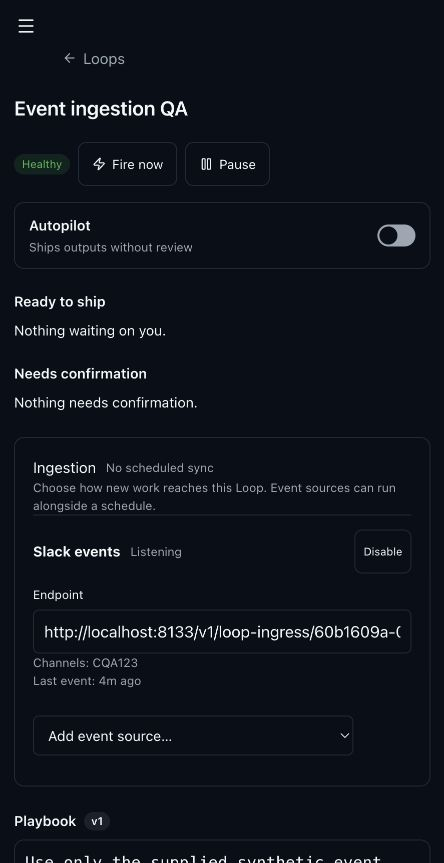
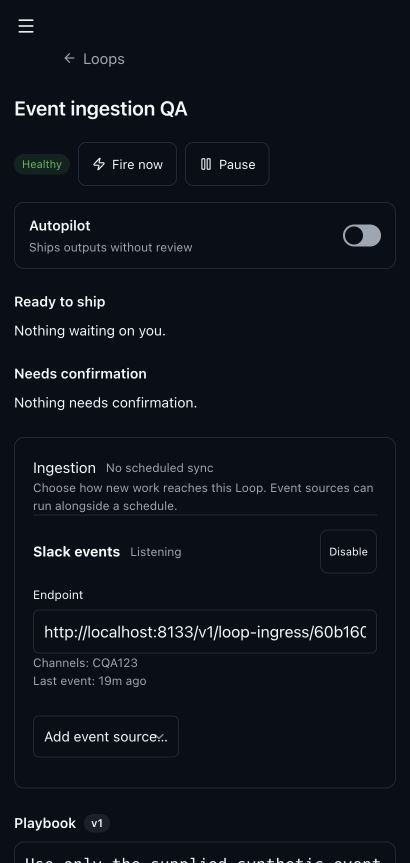
Align Inbox preview routes and controls with shared contracts

diff --git a/test/sent-chat.test.ts b/test/sent-chat.test.ts
@@ -9,13 +9,14 @@ import { createLoopItemLedger } from "../src/loops/item-ledger.ts";
 test("sent chats are durable, idempotent, and isolated to the signed-in owner", async () => {
   const store = createLoopStore();
   const items = createLoopItemLedger();
+  let previewEnabled = false;
   let status = 0;
   let response: { item: { id: string; loopId: string; state: string; thread: { text: string }[] } };
   const ctx = {
     actor: { p: "alice" },
     url: new URL("http://localhost/?principalId=bob"),
     body: { threadId: "sent-only-thread", subject: "No inbox match", from: "Alice", text: "The sent email body" },
-    deps: { loops: { store, items } },
+    deps: { loops: { store, items }, featureFlags: { enabled: async () => previewEnabled } },
     res: {
       setHeader() {},
       writeHead(code: number) {
@@ -26,6 +27,10 @@ test("sent chats are durable, idempotent, and isolated to the signed-in owner", 
       },
     },
   } as unknown as ApiCtx;
+  await ensureSentChat(ctx);
+  assert.equal(status, 403);
+  assert.equal((await store.list()).length, 0);
+  previewEnabled = true;
   await ensureSentChat(ctx);
   assert.equal(status, 200);
   const original = response!.item;
@@ -82,7 +87,11 @@ test("a sent email draft saves and sends into the original Gmail thread exactly 
       rfcMessageId: "<original@example.com>",
       text: "Original sent message",
     },
-    deps: { loops: { store, items }, loopSourceTokens: { connectorAccessToken: async () => "test-token" } },
+    deps: {
+      loops: { store, items },
+      loopSourceTokens: { connectorAccessToken: async () => "test-token" },
+      featureFlags: { enabled: async () => true },
+    },
     app: {
       membershipControlsScope: async () => false,
       samePerson: async (a: string, b: string) => a === b,
@@ -157,7 +166,7 @@ test("sent chat preserves long quoted recipient headers and rejects oversized in
   const ctx = {
     actor: { p: "alice" },
     body: { threadId: "t", to, cc },
-    deps: { loops: { store, items } },
+    deps: { loops: { store, items }, featureFlags: { enabled: async () => true } },
     res: {
       setHeader() {},
       writeHead(code: number) {

diff --git a/plugins/web-ui/src/loops.ts b/plugins/web-ui/src/loops.ts
@@ -2,7 +2,7 @@ import { html, nothing, render, type TemplateResult } from "lit";
 import { CheckCircle2, CornerUpLeft, Pause, Play, Zap } from "lucide";
 import { api } from "./core-bridge";
 import { errMessage } from "../../chassis/src/errors";
-import { icon } from "./ui";
+import { fieldSelect, icon } from "./ui";
 import { listBackLink, listPageTpl } from "./list-page";
 import { appState, can } from "./shell";
 
@@ -344,24 +344,23 @@ function ingestionTpl(loop: LoopView): TemplateResult {
         : nothing
     }
     <div class="loop-ingestion-add">
-      <select
-        aria-label="Ingestion source"
-        .value=${ingestionKind}
-        @change=${(event: Event) => {
-          ingestionKind = (event.target as HTMLSelectElement).value as typeof ingestionKind;
+      ${fieldSelect({
+        ariaLabel: "Ingestion source",
+        value: ingestionKind,
+        onChange: (value) => {
+          ingestionKind = value as typeof ingestionKind;
           ingestionSecret = "";
           paint();
-        }}
-      >
-        <option value="">Add event source…</option>
-        ${Object.entries(names)
+        },
+        options: html`<option value="">Add event source…</option>
+          ${Object.entries(names)
           .filter(
             ([kind]) =>
               !ingestion?.sources.some((source) => source.kind === kind) &&
               (!loop.sources?.length ? true : kind !== "webhook" && loop.sources.includes(kind)),
           )
-          .map(([kind, name]) => html`<option value=${kind}>${name}</option>`)}
-      </select>
+          .map(([kind, name]) => html`<option value=${kind}>${name}</option>`)}`,
+      })}
     </div>
     ${
       ingestionKind === "slack"

diff --git a/src/api/routes/loop-ingress.ts b/src/api/routes/loop-ingress.ts
@@ -82,7 +82,7 @@ async function receive(ctx: BaseCtx) {
 }
 
 export const loopIngressRoutes: ReadonlyArray<Route<ApiCtx>> = [
-  { method: "GET", path: "/v1/loops/:id/ingestion", auth: "either", handle: list },
+  { method: "GET", path: "/v1/loops/:id/ingestion", auth: "source", handle: list },
   { method: "POST", path: "/v1/loops/:id/ingestion", auth: "source", handle: change },
   { method: "PATCH", path: "/v1/loops/:id/ingestion/:sourceId", auth: "source", handle: change },
 ];

diff --git a/src/api/routes/inbox.ts b/src/api/routes/inbox.ts
@@ -140,7 +140,7 @@ async function access(ctx: ApiCtx): Promise<void> {
 }
 
 export const inboxRoutes: ReadonlyArray<Route<ApiCtx>> = [
-  { method: "GET", path: "/v1/inbox", auth: "either", handle: inbox },
+  { method: "GET", path: "/v1/inbox", auth: "source", handle: inbox },
   { method: "GET", path: "/v1/inbox/access", auth: "source", handle: access },
   { method: "PUT", path: "/v1/inbox", auth: "source", handle: inbox },
 ];
